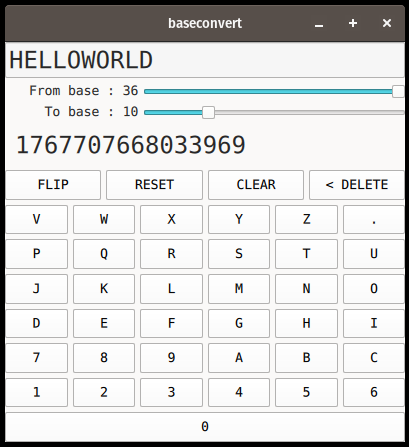
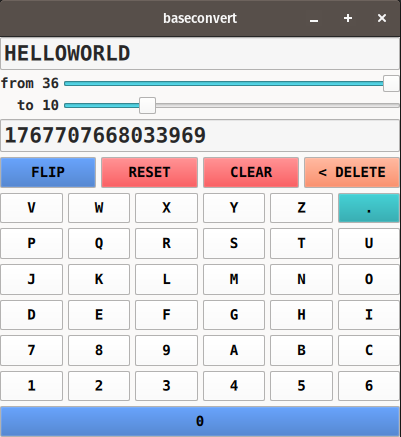
Better Light mode and font size support

diff --git a/baseconvert/app.qml b/baseconvert/app.qml
@@ -4,16 +4,31 @@ import QtQuick.Layouts
 
 
 ApplicationWindow {
+    id: main
     width: 400
     height: 400
+    minimumWidth: 300
+    minimumHeight: 150
     visible: true
     title: "baseconvert"
     property string result: ""
 
-    font.family: "monospace"
-   property bool darkMode: Application.styleHints.colorScheme === Qt.ColorScheme.Dark
+    property bool darkMode: Application.styleHints.colorScheme === Qt.ColorScheme.Dark
+    font: Qt.font({
+                bold: true,
+                underline: false,
+                pixelSize: ((main.height > 300) ? ((main.height > main.width) ? main.width / 30 : main.height / 30) : main.height / 8) * 1.1, // resize relative to parent
+                family: "monospace"
+        })
+    property var fontLarge: Qt.font({
+                bold: true,
+                underline: false,
+                pixelSize: main.font.pixelSize * 1.5,
+                family: "monospace"
+        })
 
     ColumnLayout {
+        id: mainLayout
         anchors.fill: parent
         RowLayout {
             TextField {
@@ -21,22 +36,19 @@ ApplicationWindow {
                 Layout.fillWidth: true
                 Layout.columnSpan: 1
                 placeholderText: qsTr("Input")
+                font: main.fontLarge
                 onTextChanged: {
                     input.text = input.text.toUpperCase().replace(/[^A-Z0-9.]/g, '')
                     backend.input_changed(input.text, from.value, to.value);
                 }
                 width: parent.width
-                font.pointSize: 18
                 focus: true
             }
         }
         RowLayout {
             Label {
                 id: from_text
-                text: "```base from : 10```"
-                textFormat: Text.MarkdownText
-                Layout.fillWidth: false
-                Layout.preferredWidth: parent.width / 3
+                text: "from 10"
                 horizontalAlignment: Qt.AlignRight
             }
             Slider {
@@ -49,17 +61,16 @@ ApplicationWindow {
                 stepSize: 1
                 onValueChanged: {
                     backend.input_changed(input.text, from.value, to.value);
-                    from_text.text = "```From base : " + from.value.toString() + "```";
+                    from_text.text = "from " + from.value.toString();
                 }
+                handle.implicitWidth: to_text.height
+                handle.implicitHeight: to_text.height
             }
         }
         RowLayout {
             Label {
                 id: to_text
-                text: "```to base: 36```"
-                textFormat: Text.MarkdownText
-                Layout.fillWidth: false
-                Layout.preferredWidth: parent.width / 3
+                text: "  to 36"
                 horizontalAlignment: Qt.AlignRight
             }
             Slider {
@@ -72,23 +83,25 @@ ApplicationWindow {
                 stepSize: 1
                 onValueChanged: {
                     backend.input_changed(input.text, from.value, to.value);
-                    to_text.text = "```To base : " + to.value.toString() + "```"
+                    to_text.text = "  to " + to.value.toString();
                 }
+                handle.implicitWidth: to_text.height
+                handle.implicitHeight: to_text.height
             }
         }
         ColumnLayout {
-            TextArea {
+            TextField {
                 id: output
                 text: backend.result
                 Layout.fillWidth: true
                 Layout.columnSpan: 1
+                font: main.fontLarge
                 readOnly: true
                 width: parent.width
-                font.pointSize: 18
-                //wrapMode: Text.WrapAnywhere
             }
         }
         ButtonRow{
+            visible: (main.height > 300) ? true : false
             Layout.fillWidth: true
             Layout.fillHeight: true
             text1: "FLIP"
@@ -97,10 +110,10 @@ ApplicationWindow {
             text4: "< DELETE"
             enable5: false
             enable6: false
-            color1: darkMode ? "#0D47A1" : "#ffffff"
-            color2: darkMode ? "#C8090B" : "#ffffff"
-            color3: darkMode ? "#C8090B" : "#ffffff"
-            color4: darkMode ? "#C63100" : "#ffffff"
+            color1: darkMode ? "#0D47A1" : "#275fb8"
+            color2: darkMode ? "#C8090B" : "#f51618"
+            color3: darkMode ? "#C8090B" : "#f51618"
+            color4: darkMode ? "#C63100" : "#ff6633"
             onButtonPressed: (text) => {
                 if( text == "FLIP"){
                     var base_from = from.value;
@@ -130,6 +143,7 @@ ApplicationWindow {
             }
         }
         ButtonRow{
+            visible: (main.height > 300) ? true : false
             Layout.fillWidth: true
             Layout.fillHeight: true
             text1: "V"
@@ -144,12 +158,13 @@ ApplicationWindow {
             enable5: (from.value >= 36) ? true : false
             enable6: true
             text6: "."
-            color6: darkMode ? "#0D47A1" : "#ffffff"
+            color6: darkMode ? "#006064" : "#109ba1"
             onButtonPressed: (text) => {
                 input.text += text
             }
         }
         ButtonRow{
+            visible: (main.height > 300) ? true : false
             Layout.fillWidth: true
             Layout.fillHeight: (from.value >= 26) ? true : false
             text1: "P"
@@ -167,6 +182,7 @@ ApplicationWindow {
             onButtonPressed: (text) => {input.text += text}
         }
         ButtonRow{
+            visible: (main.height > 300) ? true : false
             Layout.fillWidth: true
             Layout.fillHeight: (from.value >= 20) ? true : false
             text1: "J"
@@ -184,6 +200,7 @@ ApplicationWindow {
             onButtonPressed: (text) => {input.text += text}
         }
         ButtonRow{
+            visible: (main.height > 300) ? true : false
             Layout.fillWidth: true
             Layout.fillHeight: (from.value >= 14) ? true : false
             text1: "D"
@@ -201,6 +218,7 @@ ApplicationWindow {
             onButtonPressed: (text) => {input.text += text}
         }
         ButtonRow{
+            visible: (main.height > 300) ? true : false
             Layout.fillWidth: true
             Layout.fillHeight: (from.value >= 8) ? true : false
             text1: "7"
@@ -218,6 +236,7 @@ ApplicationWindow {
             onButtonPressed: (text) => {input.text += text}
         }
         ButtonRow{
+            visible: (main.height > 300) ? true : false
             Layout.fillWidth: true
             Layout.fillHeight: (from.value >= 2) ? true : false
             text1: "1"
@@ -235,10 +254,11 @@ ApplicationWindow {
             onButtonPressed: (text) => {input.text += text}
         }
         ButtonRow{
+            visible: (main.height > 300) ? true : false
             Layout.fillWidth: true
             Layout.fillHeight: true
             text1: "0"
-            color1: darkMode ? "#0D47A1" : "#ffffff"
+            color1: darkMode ? "#0D47A1" : "#275fb8"
             onButtonPressed: (text) => {input.text += text}
             enable2: false
             enable3: false

diff --git a/README.md b/README.md
@@ -7,6 +7,10 @@ Convert rational numbers between bases.
 
 [https://github.com/BreadMakesYouFull/baseconvert](https://github.com/BreadMakesYouFull/baseconvert)
 
+<a href='https://flathub.org/apps/io.github.breadmakesyoufull.baseconvert'>
+  <img width='128' alt='Get it on Flathub' src='https://flathub.org/api/badge?locale=en'/>
+</a>
+
 ## Install
 
 Requires:
